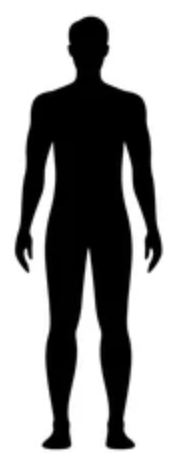
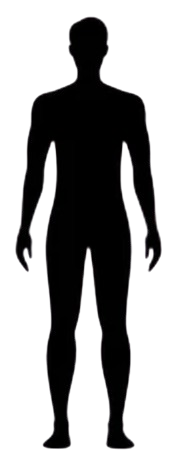
Made the mannequin more human-shaped

diff --git a/src/scripts/script.js b/src/scripts/script.js
@@ -137,47 +137,26 @@ const typeGroups = {
 
 const seasonOptions = ["Spring", "Summer", "Fall", "Winter"];
 
-const defaultCloset = [
-  {
-    id: crypto.randomUUID(),
-    name: "Forest weekend tee",
-    color: "Dark Green",
-    material: "Cotton",
-    type: "Shirts",
-    style: "T-shirt",
-    theme: "Casual",
-    warmth: "light",
-  },
-  {
-    id: crypto.randomUUID(),
-    name: "Cream straight trousers",
-    color: "White",
-    material: "",
-    type: "Pants",
-    style: "Straight",
-    theme: "Business-Casual",
-    warmth: "medium",
-  },
-  {
-    id: crypto.randomUUID(),
-    name: "Olive bomber layer",
-    color: "Dark Green",
-    material: "",
-    type: "Jackets",
-    style: "Bomber jacket",
-    theme: "Casual",
-    warmth: "medium",
-  },
+const defaultCloset = [];
+const legacySeedItemNames = [
+  "Forest weekend tee",
+  "Cream straight trousers",
+  "Olive bomber layer",
 ];
 
 const state = {
-  closet: loadCollection(STORAGE_KEYS.closet, defaultCloset),
+  closet: normalizeInitialCloset(loadCollection(STORAGE_KEYS.closet, defaultCloset)),
   profile: loadObject(STORAGE_KEYS.profile, {
     temperatureBias: "neutral",
     profileStyle: "Balanced",
     presentation: "Unspecified",
   }),
   weatherLocation: null,
+};
+
+const mannequinSources = {
+  default: "./images/Mannequin_Silhouette.png",
+  feminine: "./images/Mannequin_Silhouette2.png",
 };
 
 const elements = {
@@ -197,6 +176,8 @@ const elements = {
   mannequinTop: document.querySelector("#mannequin-top"),
   mannequinBottom: document.querySelector("#mannequin-bottom"),
   mannequinLayer: document.querySelector("#mannequin-layer"),
+  mannequinSilhouette: document.querySelector("#mannequin-silhouette"),
+  mannequinShell: document.querySelector(".mannequin__silhouette-shell"),
   closetForm: document.querySelector("#closet-form"),
   closetList: document.querySelector("#closet-list"),
   closetFilter: document.querySelector("#closet-filter"),
@@ -846,6 +827,16 @@ function renderProfile() {
   elements.profileForm.temperatureBias.value = temperatureBias;
   elements.profileForm.profileStyle.value = profileStyle;
   elements.profileForm.presentation.value = presentation;
+  updateMannequinPresentation(presentation);
+}
+
+function updateMannequinPresentation(presentation) {
+  const silhouetteSource = presentation === "Feminine"
+    ? mannequinSources.feminine
+    : mannequinSources.default;
+
+  elements.mannequinSilhouette.src = silhouetteSource;
+  elements.mannequinShell.style.setProperty("--mannequin-mask", `url("${silhouetteSource}")`);
 }
 
 function generateRecommendation({ temperature, weather, season, theme, stylePreference }) {
@@ -857,15 +848,15 @@ function generateRecommendation({ temperature, weather, season, theme, stylePref
   elements.weatherSummary.textContent = `${temperature}°F · ${capitalize(weather)} · ${season}`;
   elements.topRecommendation.textContent = topItem
     ? describeItem(topItem)
-    : "Add shirts or sweaters so QuickFit can suggest a top.";
+    : "No top selected yet. Add shirts or sweaters to your closet.";
   elements.bottomRecommendation.textContent = bottomItem
     ? describeItem(bottomItem)
-    : "Add pants, shorts, or skirts so QuickFit can finish the outfit.";
+    : "No bottom selected yet. Add pants, shorts, or skirts to your closet.";
   elements.layerRecommendation.textContent = layerItem
     ? describeItem(layerItem)
     : effectiveTemperature < 60 || weather === "rainy"
-      ? "A jacket, scarf, or weather-ready accessory would help here."
-      : "No extra layer needed right now, but accessories can elevate the look.";
+      ? "No extra layer selected yet. A jacket, scarf, or weather-ready accessory could help."
+      : "No extra layer selected. Accessories can be added once your closet is set up.";
 
   applyMannequinStyles(topItem, bottomItem, layerItem, effectiveTemperature);
   elements.rationale.textContent = buildRationale({
@@ -912,18 +903,35 @@ function desiredWarmth(temperature, group, weather) {
 function applyMannequinStyles(topItem, bottomItem, layerItem, effectiveTemperature) {
   elements.mannequinTop.style.background = colorForItem(topItem?.color, "#4ea35f");
   elements.mannequinBottom.style.background = colorForItem(bottomItem?.color, "#dbe8d7");
+  elements.mannequinLayer.style.background = colorForItem(layerItem?.color, "#083910");
 
-  const longTop = topItem?.type === "Sweaters";
-  elements.mannequinTop.style.height = longTop || effectiveTemperature < 55 ? "126px" : "112px";
-  elements.mannequinBottom.style.height = effectiveTemperature > 75 ? "98px" : "132px";
-  elements.mannequinBottom.style.top = "198px";
+  if (topItem) {
+    const topClip = topItem.type === "Sweaters"
+      ? "inset(14% 18% 34% 18%)"
+      : "inset(16% 20% 42% 20%)";
+    elements.mannequinTop.style.clipPath = topClip;
+    elements.mannequinTop.style.opacity = "0.92";
+  } else {
+    elements.mannequinTop.style.opacity = "0";
+  }
+
+  if (bottomItem) {
+    const bottomClip = effectiveTemperature > 75
+      ? "inset(58% 24% 24% 24%)"
+      : "inset(52% 24% 10% 24%)";
+    elements.mannequinBottom.style.clipPath = bottomClip;
+    elements.mannequinBottom.style.opacity = "0.9";
+  } else {
+    elements.mannequinBottom.style.opacity = "0";
+  }
 
   if (layerItem && layerItem.type === "Jackets") {
-    elements.mannequinLayer.style.height = effectiveTemperature < 60 ? "154px" : "126px";
-    elements.mannequinLayer.style.opacity = "0.9";
-    elements.mannequinLayer.style.background = colorForItem(layerItem.color, "#083910");
+    const layerClip = effectiveTemperature < 60
+      ? "inset(12% 12% 30% 12%)"
+      : "inset(14% 14% 38% 14%)";
+    elements.mannequinLayer.style.clipPath = layerClip;
+    elements.mannequinLayer.style.opacity = "0.82";
   } else {
-    elements.mannequinLayer.style.height = "0";
     elements.mannequinLayer.style.opacity = "0";
   }
 }
@@ -946,7 +954,7 @@ function buildRationale({
   const outfitMessage = [
     topItem ? `${topItem.name} handles the top layer.` : "You still need a saved top option.",
     bottomItem ? `${bottomItem.name} anchors the outfit.` : "A saved bottom will help complete the look.",
-    layerItem ? `${layerItem.name} adds extra weather protection.` : "No extra layer was required from your closet.",
+    layerItem ? `${layerItem.name} adds extra weather protection.` : "No extra layer was selected from your closet.",
   ].join(" ");
 
   return `${biasMessage}${capitalize(weather)} ${season.toLowerCase()} weather and a ${theme.toLowerCase()} theme push this suggestion toward ${stylePreference.toLowerCase()} styling. ${outfitMessage}`;
@@ -990,6 +998,20 @@ function loadCollection(key, fallback) {
     persistCollection(key, fallback);
     return fallback;
   }
+}
+
+function normalizeInitialCloset(closet) {
+  const itemNames = closet.map((item) => item.name).sort();
+  const isLegacySeedCloset =
+    closet.length === legacySeedItemNames.length &&
+    legacySeedItemNames.every((name) => itemNames.includes(name));
+
+  if (!isLegacySeedCloset) {
+    return closet;
+  }
+
+  persistCollection(STORAGE_KEYS.closet, []);
+  return [];
 }
 
 function persistCollection(key, value) {

diff --git a/src/styles/styles.css b/src/styles/styles.css
@@ -305,61 +305,73 @@ select:focus {
 
 .mannequin {
   position: relative;
-  width: min(290px, 100%);
-  height: 360px;
+  width: min(240px, 100%);
+  height: 420px;
   margin: 18px auto 22px;
 }
 
-.mannequin__head,
-.mannequin__torso,
-.mannequin__legs,
-.mannequin__extra {
+.mannequin__silhouette-shell {
   position: absolute;
   left: 50%;
-  transform: translateX(-50%);
-  border-radius: 999px;
-  transition: background 180ms ease, height 180ms ease, width 180ms ease, opacity 180ms ease;
-}
-
-.mannequin__head {
   top: 0;
-  width: 74px;
-  height: 74px;
-  background: linear-gradient(180deg, #dcebd7, #c5dcc0);
-  box-shadow: inset 0 -10px 18px rgba(15, 95, 32, 0.1);
+  width: 176px;
+  height: 100%;
+  transform: translateX(-50%);
+  overflow: hidden;
+  --mannequin-mask: url("../../images/Mannequin_Silhouette.png");
 }
 
-.mannequin__torso {
-  top: 84px;
-  width: 132px;
-  height: 118px;
-  background: linear-gradient(180deg, #87c28e, #3f8f4c);
+.mannequin__silhouette {
+  position: absolute;
+  left: 0;
+  top: 0;
+  width: 100%;
+  height: 100%;
+  object-fit: contain;
+  object-position: center;
 }
 
-.mannequin__legs {
-  top: 198px;
-  width: 116px;
-  height: 132px;
-  background: linear-gradient(180deg, #dbe8d7, #b9d1b5);
-}
-
-.mannequin__extra {
-  top: 74px;
-  width: 164px;
-  height: 0;
+.mannequin__garment {
+  position: absolute;
+  inset: 0;
+  top: 0;
   opacity: 0;
-  background: linear-gradient(180deg, rgba(8, 57, 16, 0.92), rgba(26, 123, 49, 0.9));
+  transition: opacity 180ms ease, background 180ms ease, clip-path 180ms ease;
+  mix-blend-mode: multiply;
+  mask-image: var(--mannequin-mask);
+  mask-repeat: no-repeat;
+  mask-position: center;
+  mask-size: contain;
+  -webkit-mask-image: var(--mannequin-mask);
+  -webkit-mask-repeat: no-repeat;
+  -webkit-mask-position: center;
+  -webkit-mask-size: contain;
+}
+
+.mannequin__garment--top {
+  background: #4ea35f;
+  clip-path: inset(16% 20% 42% 20%);
+}
+
+.mannequin__garment--bottom {
+  background: #dbe8d7;
+  clip-path: inset(52% 24% 10% 24%);
+}
+
+.mannequin__garment--layer {
+  background: #083910;
+  clip-path: inset(12% 12% 34% 12%);
 }
 
 .mannequin__base {
   position: absolute;
   left: 50%;
   bottom: 0;
-  width: 180px;
-  height: 14px;
+  width: 120px;
+  height: 10px;
   transform: translateX(-50%);
   border-radius: 999px;
-  background: rgba(8, 57, 16, 0.18);
+  background: rgba(8, 57, 16, 0.12);
 }
 
 .recommendation-list {

diff --git a/index.html b/index.html
@@ -179,10 +179,17 @@
             <div class="mannequin-card">
               <div class="weather-chip" id="weather-summary"></div>
               <div class="mannequin" aria-hidden="true">
-                <div class="mannequin__head"></div>
-                <div class="mannequin__torso" id="mannequin-top"></div>
-                <div class="mannequin__legs" id="mannequin-bottom"></div>
-                <div class="mannequin__extra" id="mannequin-layer"></div>
+                <div class="mannequin__silhouette-shell">
+                  <img
+                    class="mannequin__silhouette"
+                    id="mannequin-silhouette"
+                    src="./images/Mannequin_Silhouette.png"
+                    alt=""
+                  >
+                  <div class="mannequin__garment mannequin__garment--top" id="mannequin-top"></div>
+                  <div class="mannequin__garment mannequin__garment--bottom" id="mannequin-bottom"></div>
+                  <div class="mannequin__garment mannequin__garment--layer" id="mannequin-layer"></div>
+                </div>
                 <div class="mannequin__base"></div>
               </div>
 
